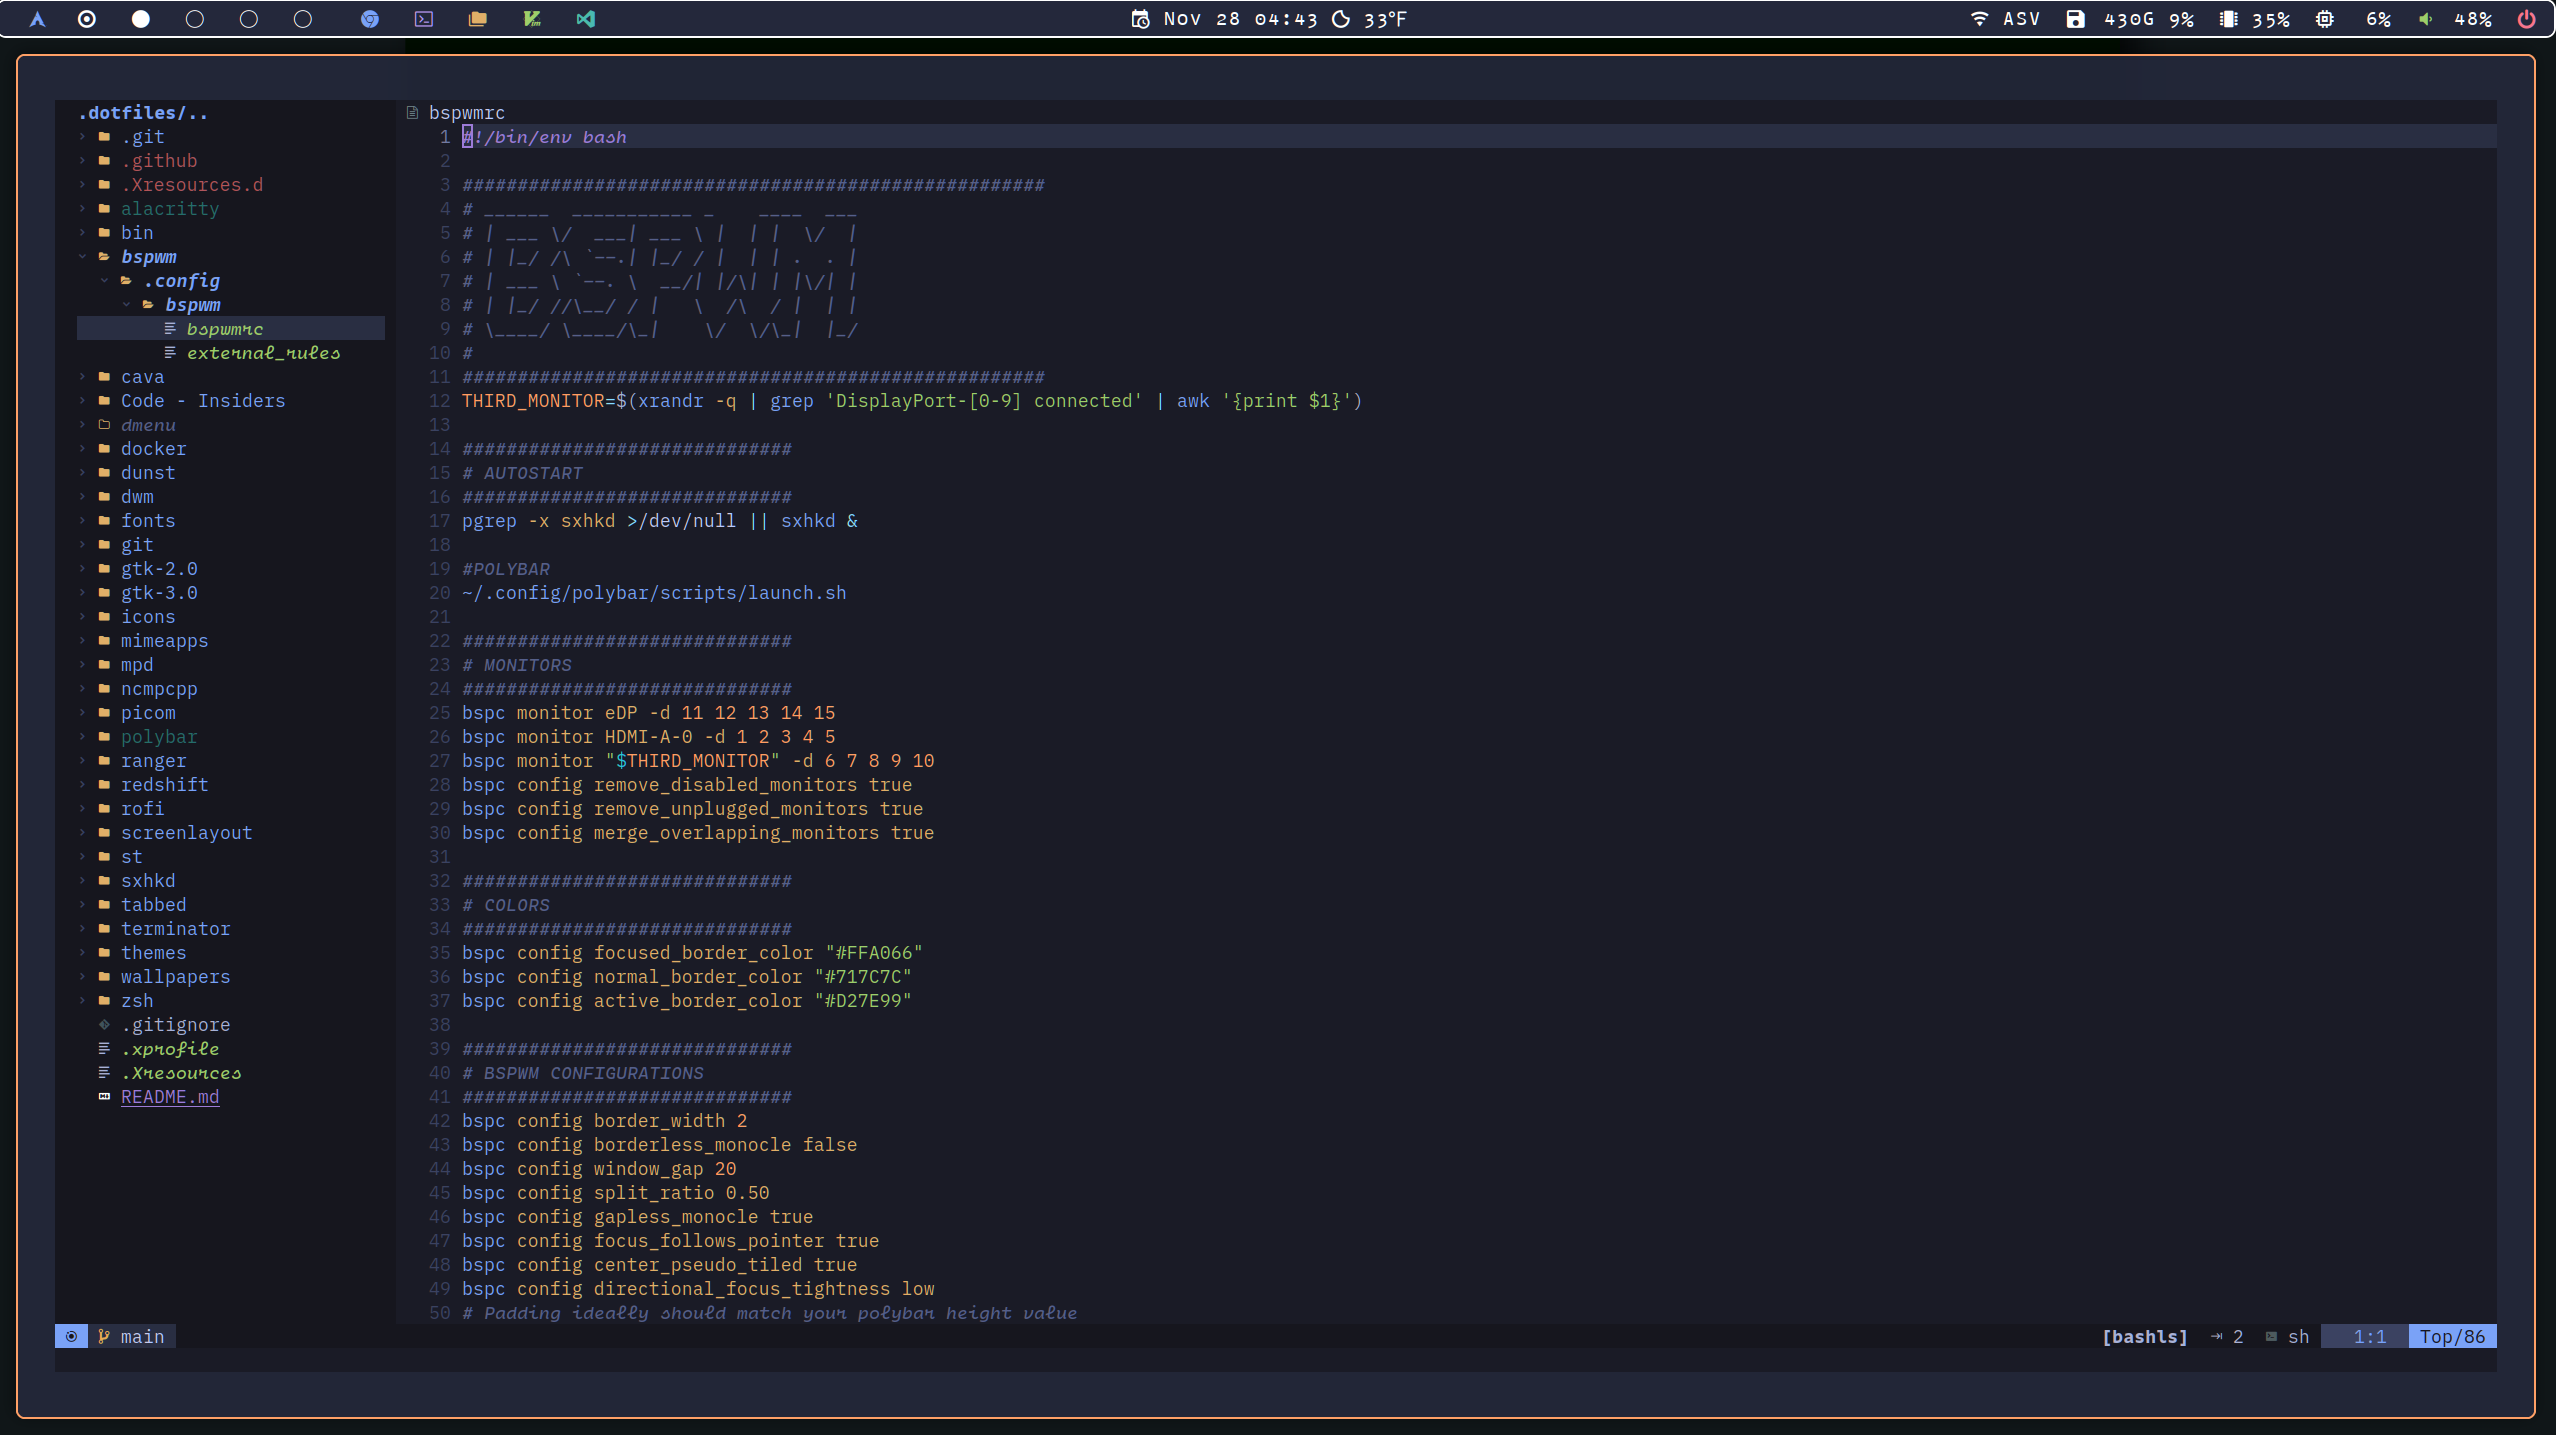
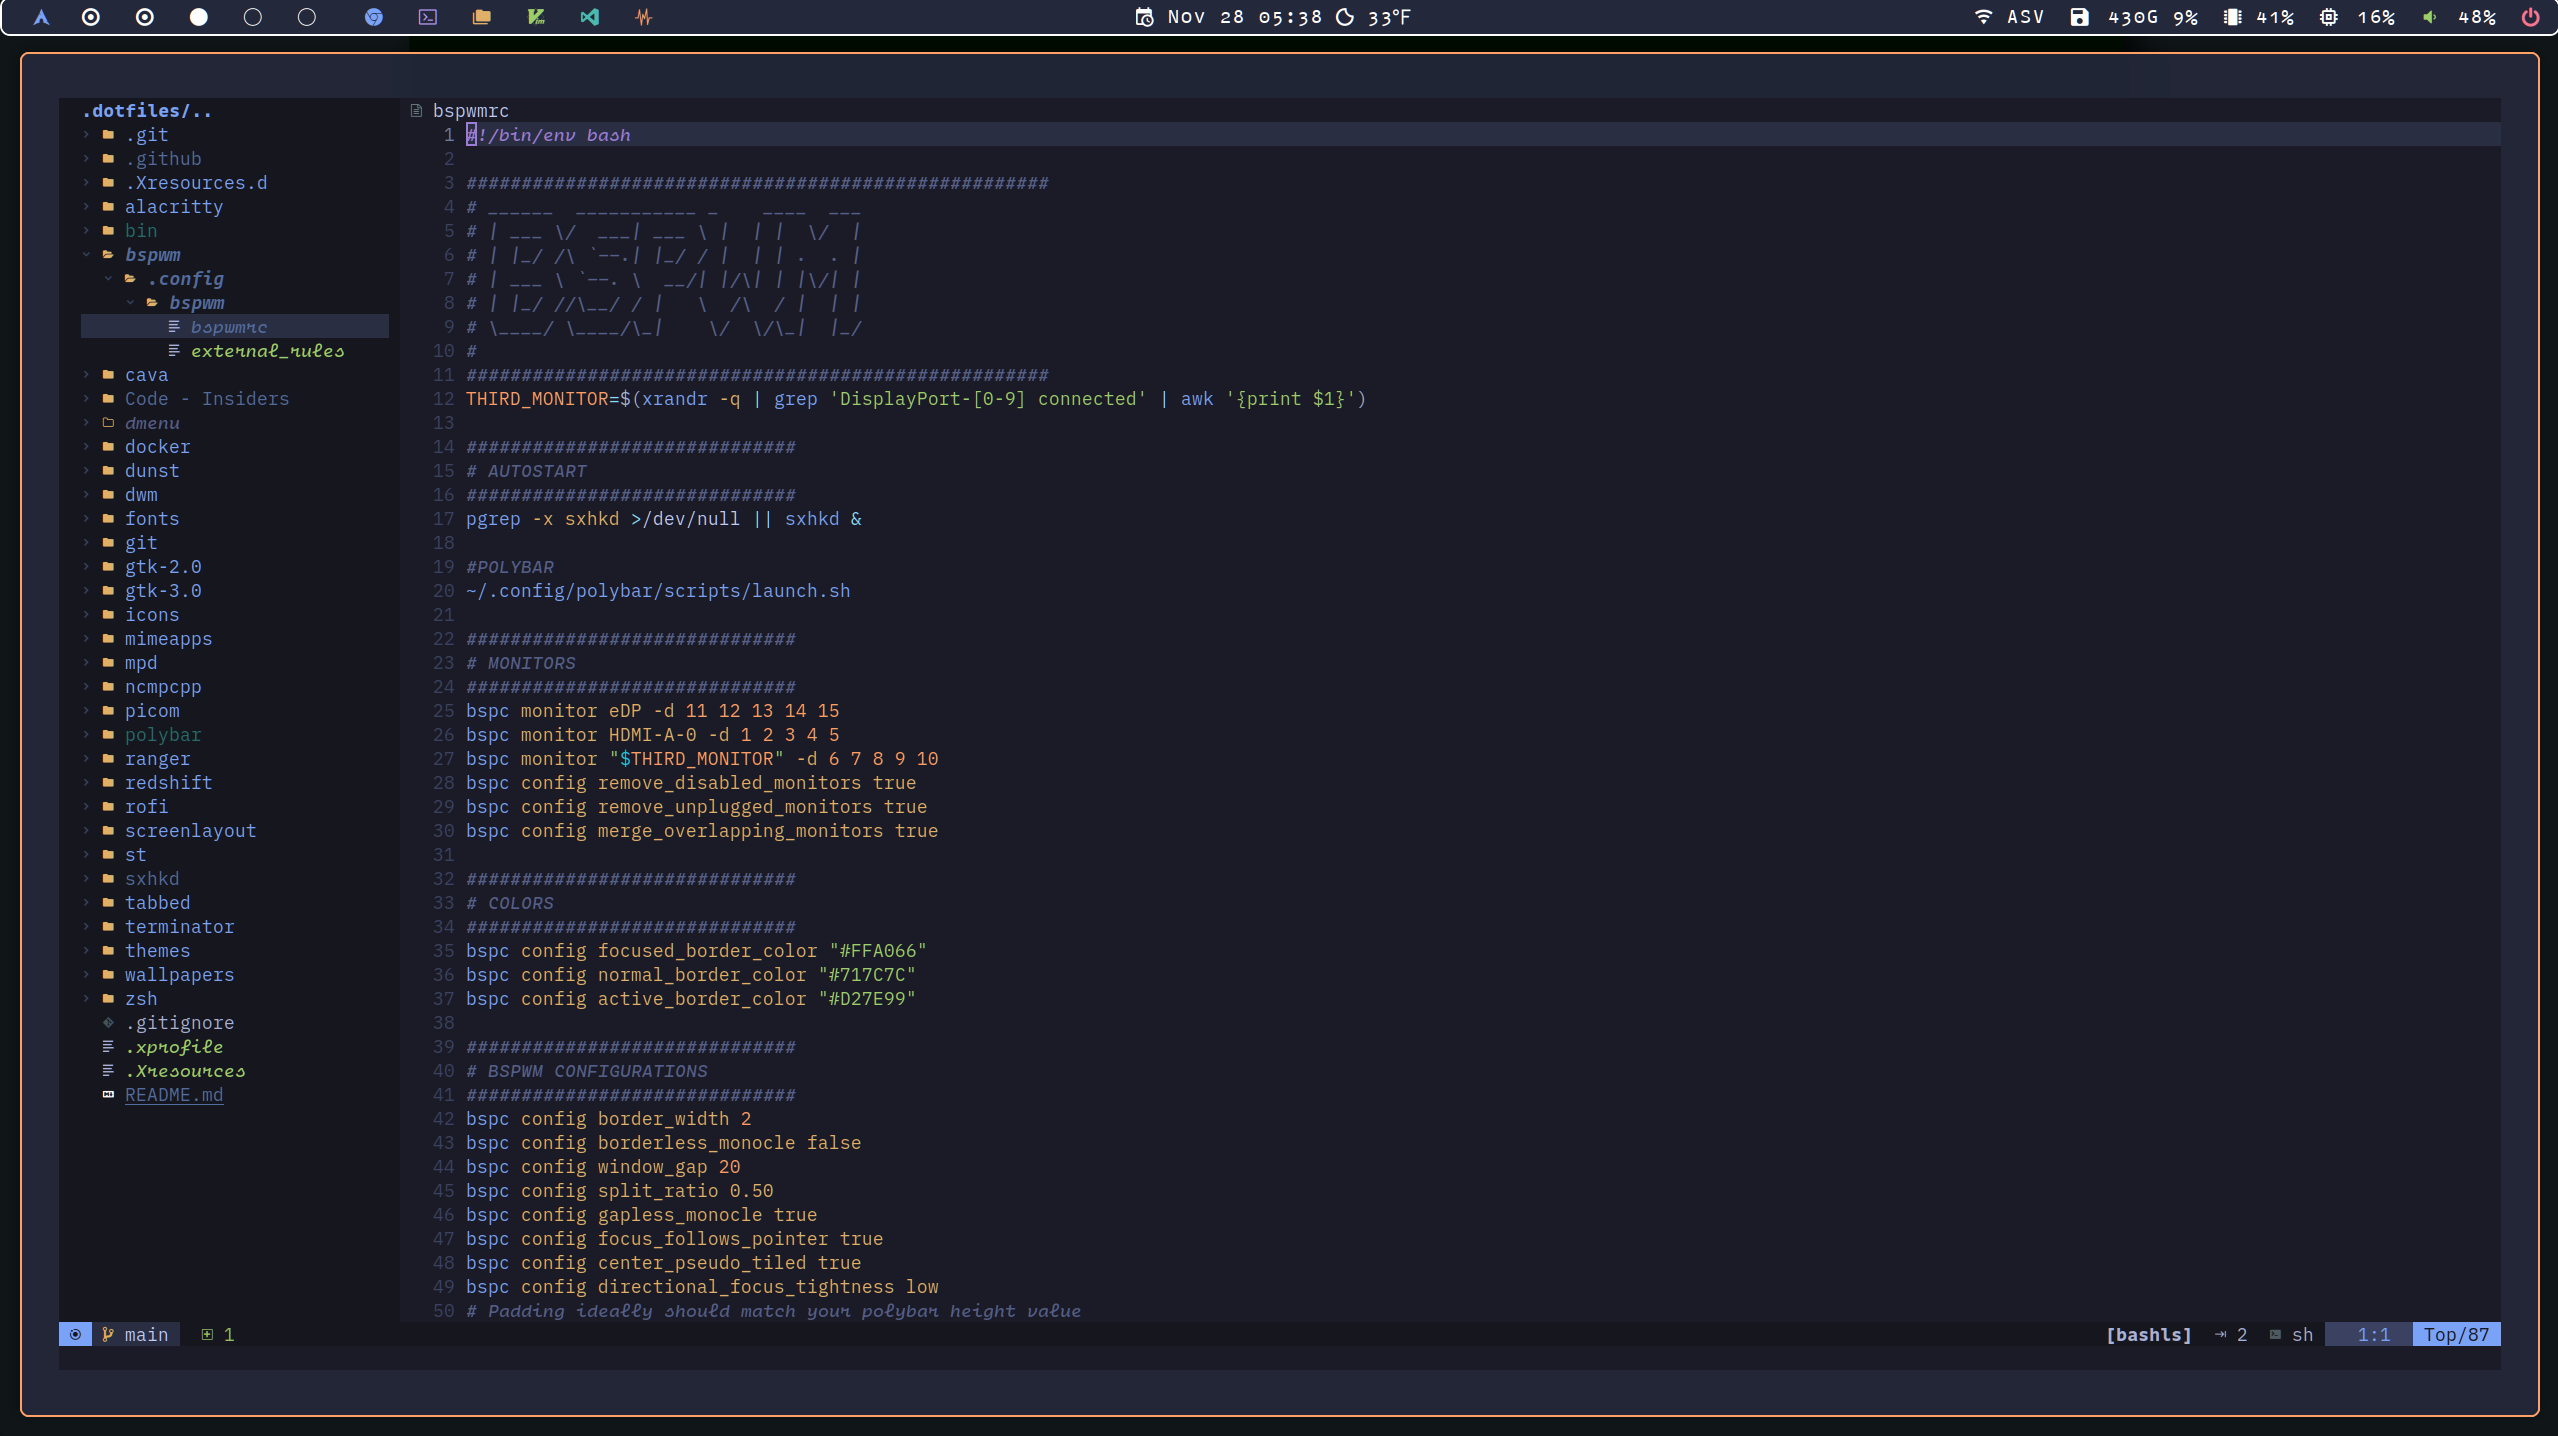
updates

diff --git a/README.md b/README.md
@@ -17,3 +17,11 @@ Currently, this only supports BSPWM. When time allows, I'll be able to test and 
 ## LunarVim ScratchPad
 
 ![lvim](.github/assets/Lunarvim.png)
+
+## VSCode Insiders
+
+![vsci](.github/assets/VSCode.png)
+
+## Gotop
+
+![gotop](.github/assets/Gotop.png)
